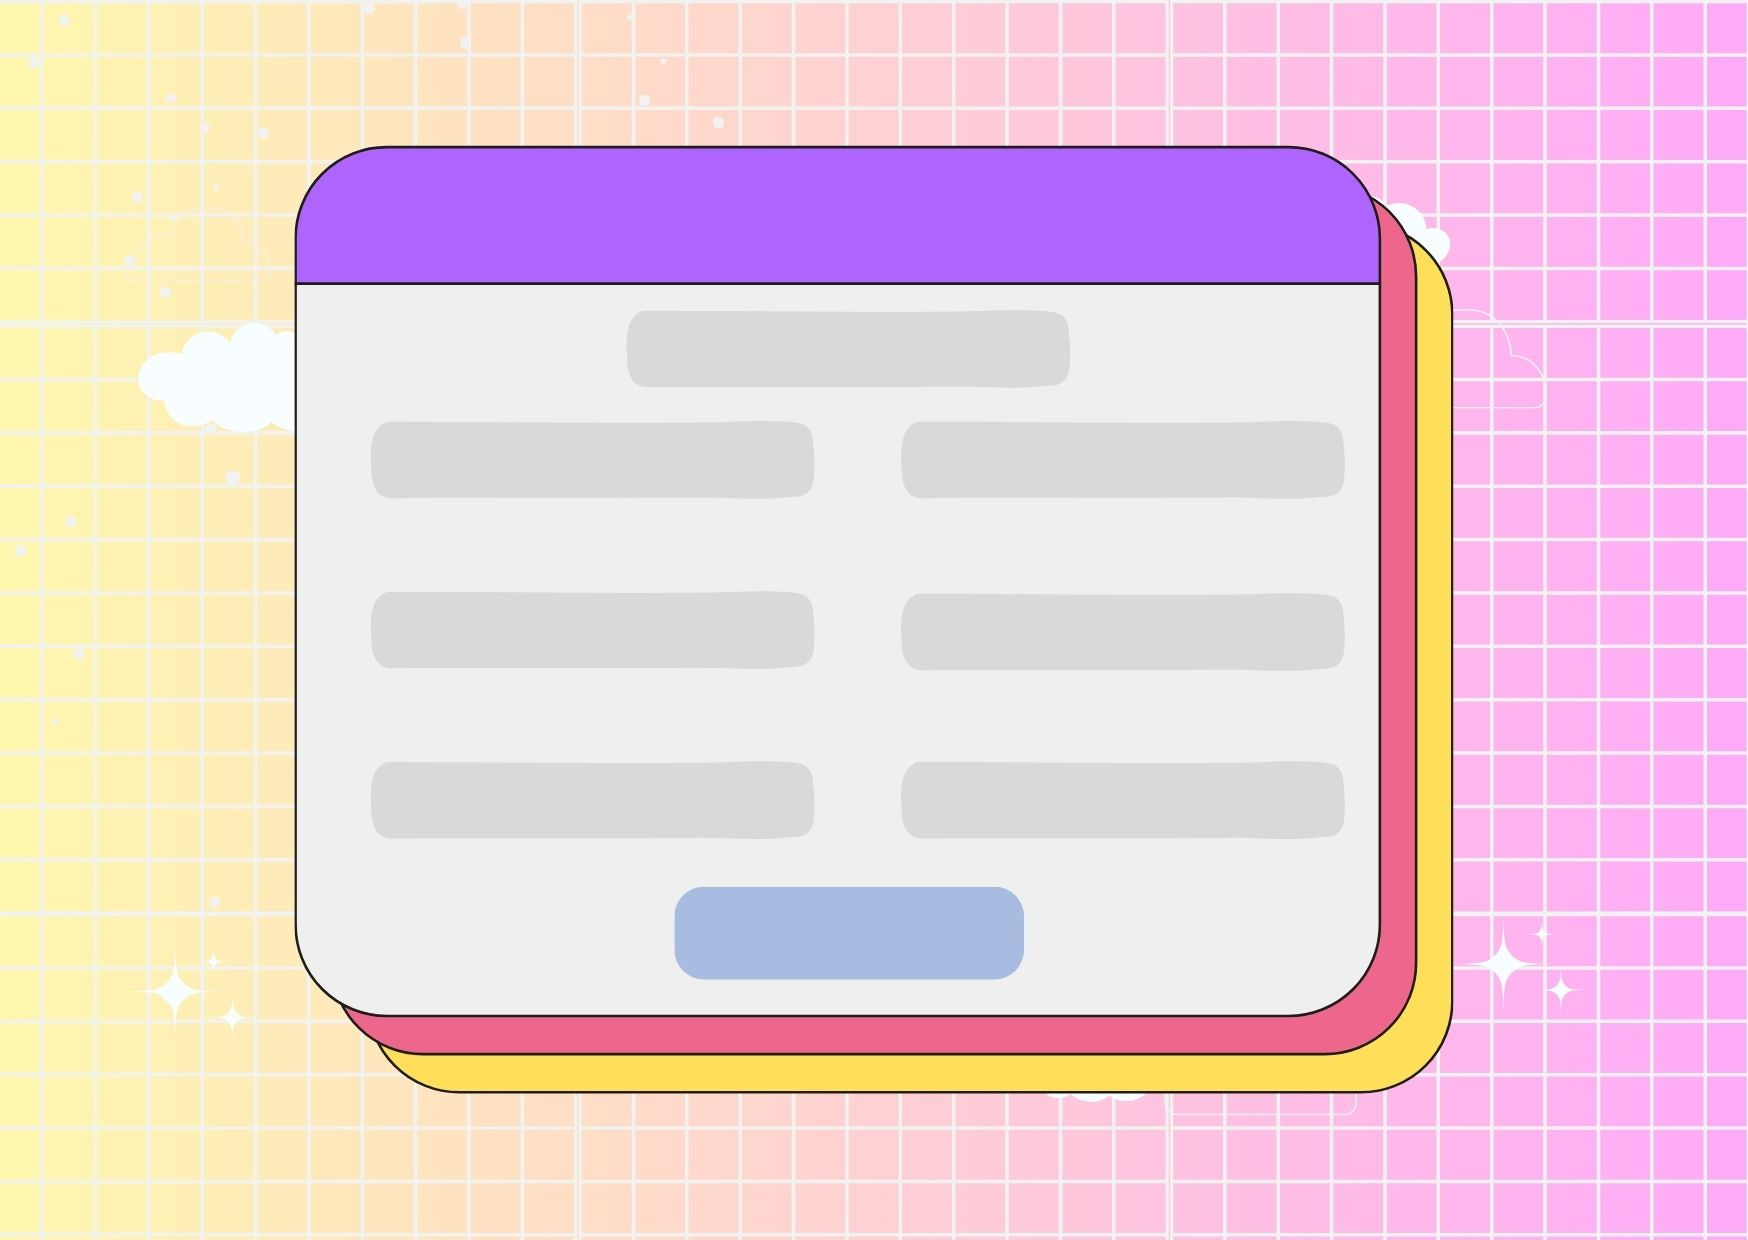
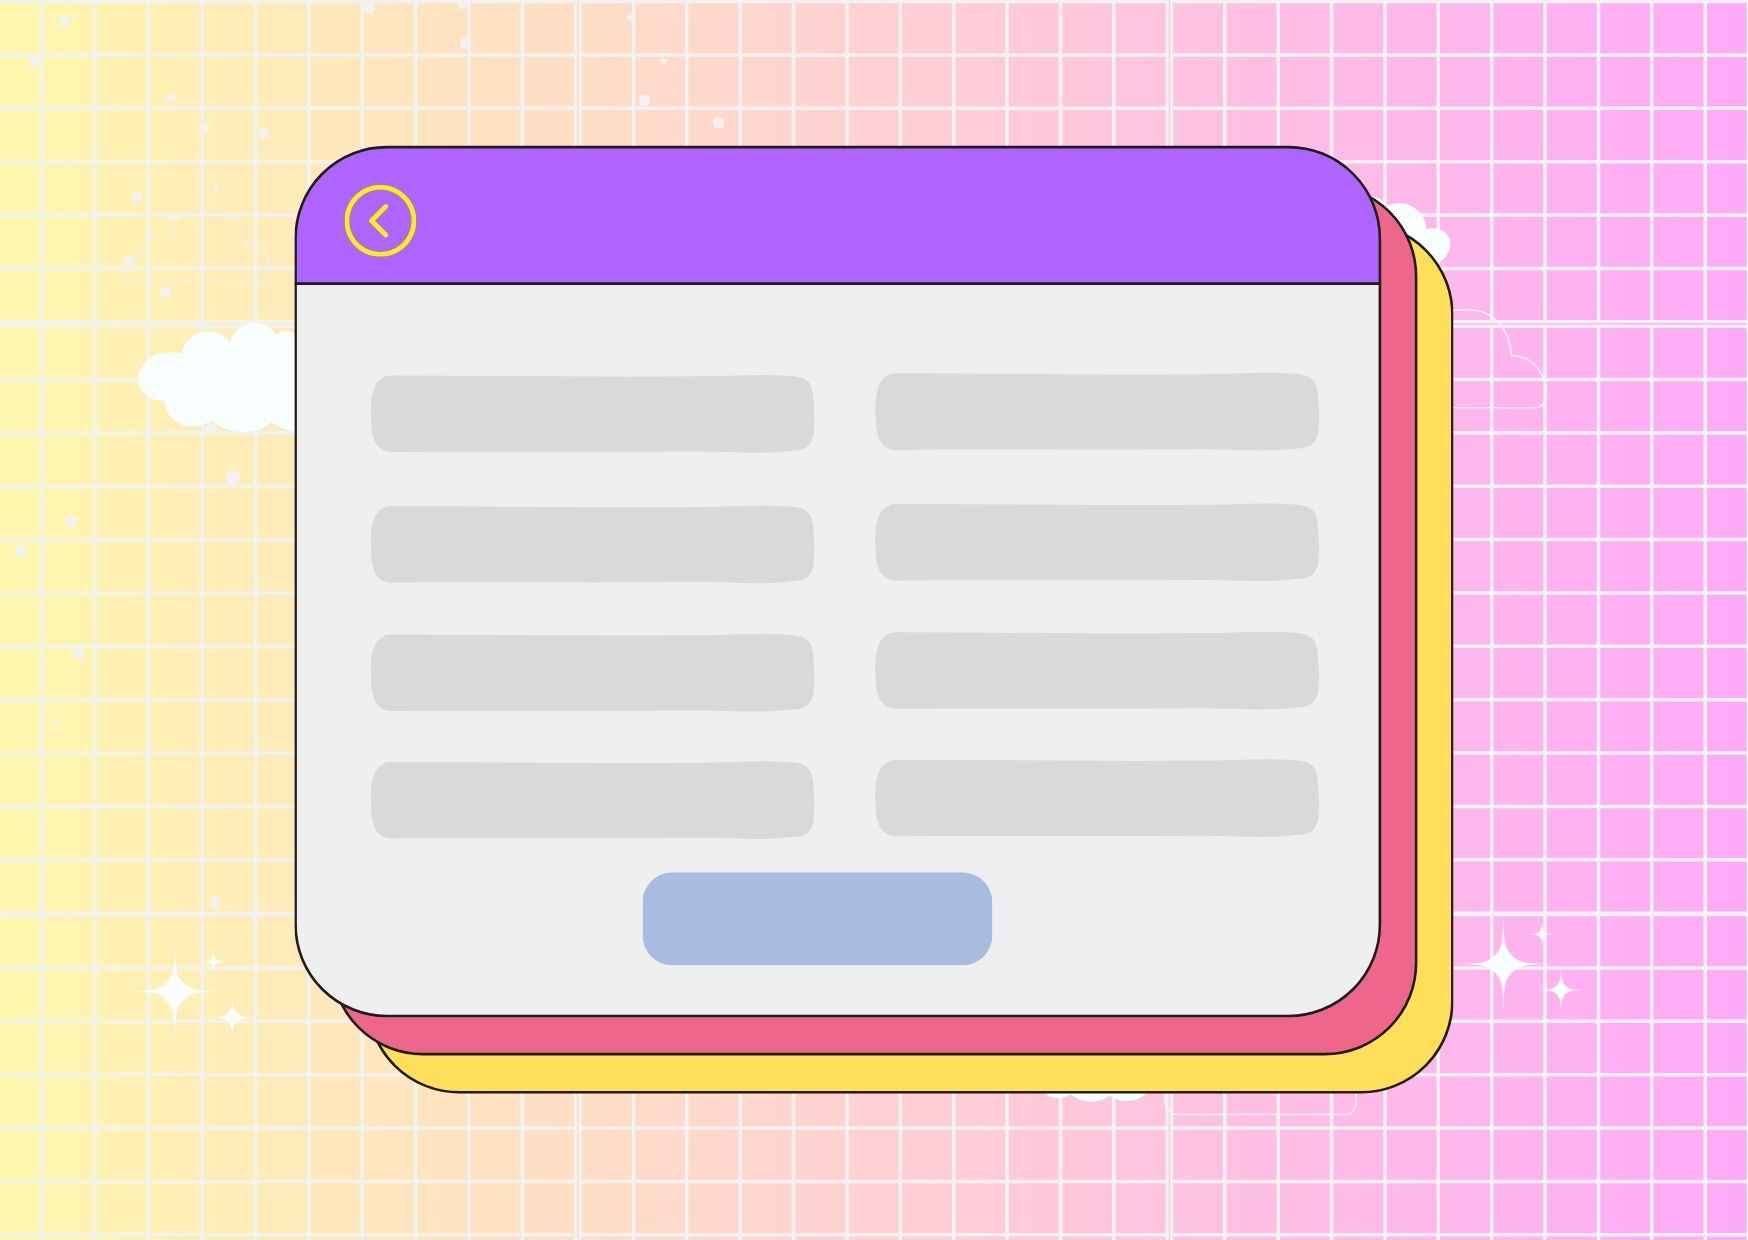
Arrumando interface cadastro (ambas)

Changed region(s): [[0.3707, 0.7048, 0.587, 0.7968], [0.1854, 0.1532, 0.2471, 0.2145]]

diff --git a/src/main/java/poo/trabalhofinal/supertrunfo/gui/controllers/CadastroUsuarioController.java b/src/main/java/poo/trabalhofinal/supertrunfo/gui/controllers/CadastroUsuarioController.java
@@ -24,6 +24,7 @@ public class CadastroUsuarioController implements Initializable {
     public Button cadastrar;
     @FXML
     public Label alerta;
+    //todo: fazer botão voltar
     @Override
     public void initialize(URL url, ResourceBundle resourceBundle) {
         cadastrar.setOnAction(new EventHandler<ActionEvent>() {

diff --git a/src/main/java/poo/trabalhofinal/supertrunfo/gui/controllers/CadastroCartaController.java b/src/main/java/poo/trabalhofinal/supertrunfo/gui/controllers/CadastroCartaController.java
@@ -42,6 +42,8 @@ public class CadastroCartaController implements Initializable {
     @FXML
     public Button adicionar;
     String tipo;
+    //todo: fazer botão voltar
+    //todo: url imagem
 
     public void setDados(String tipo) {
         this.tipo = tipo;
